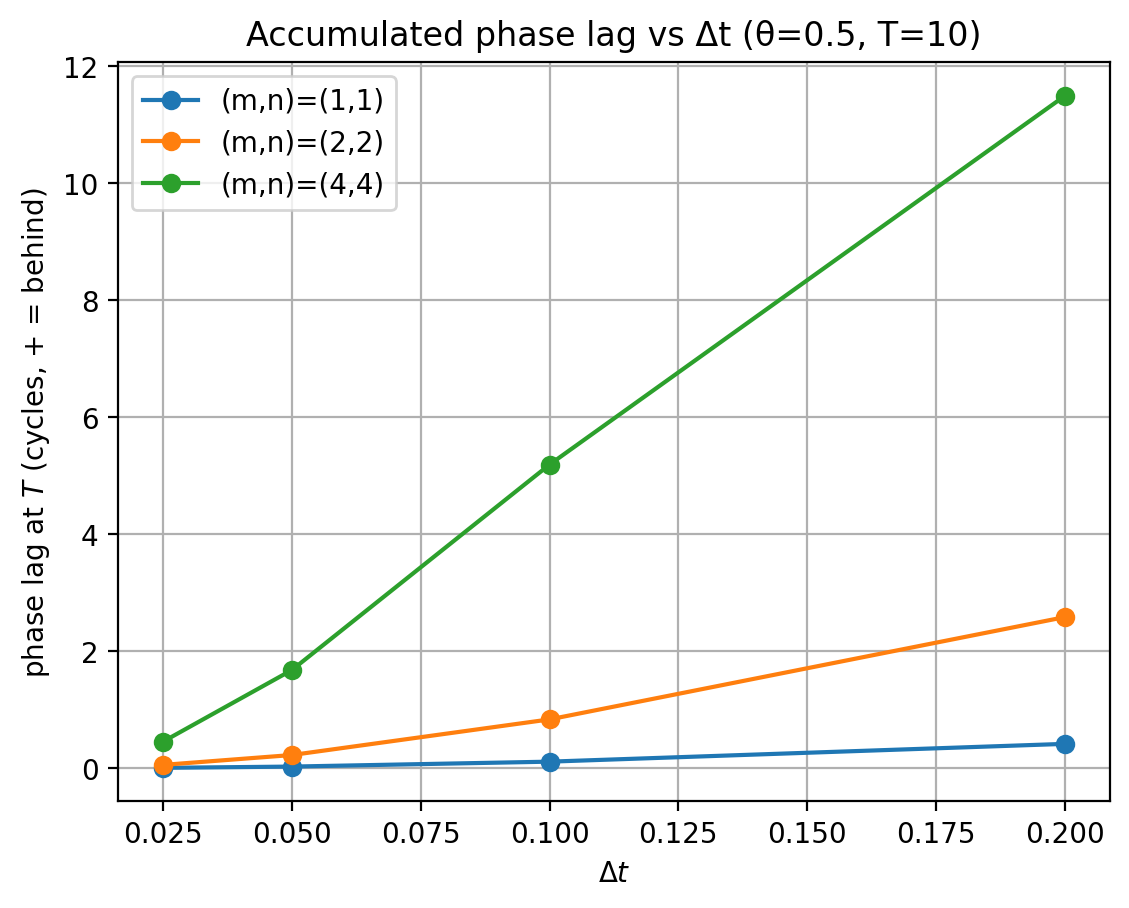
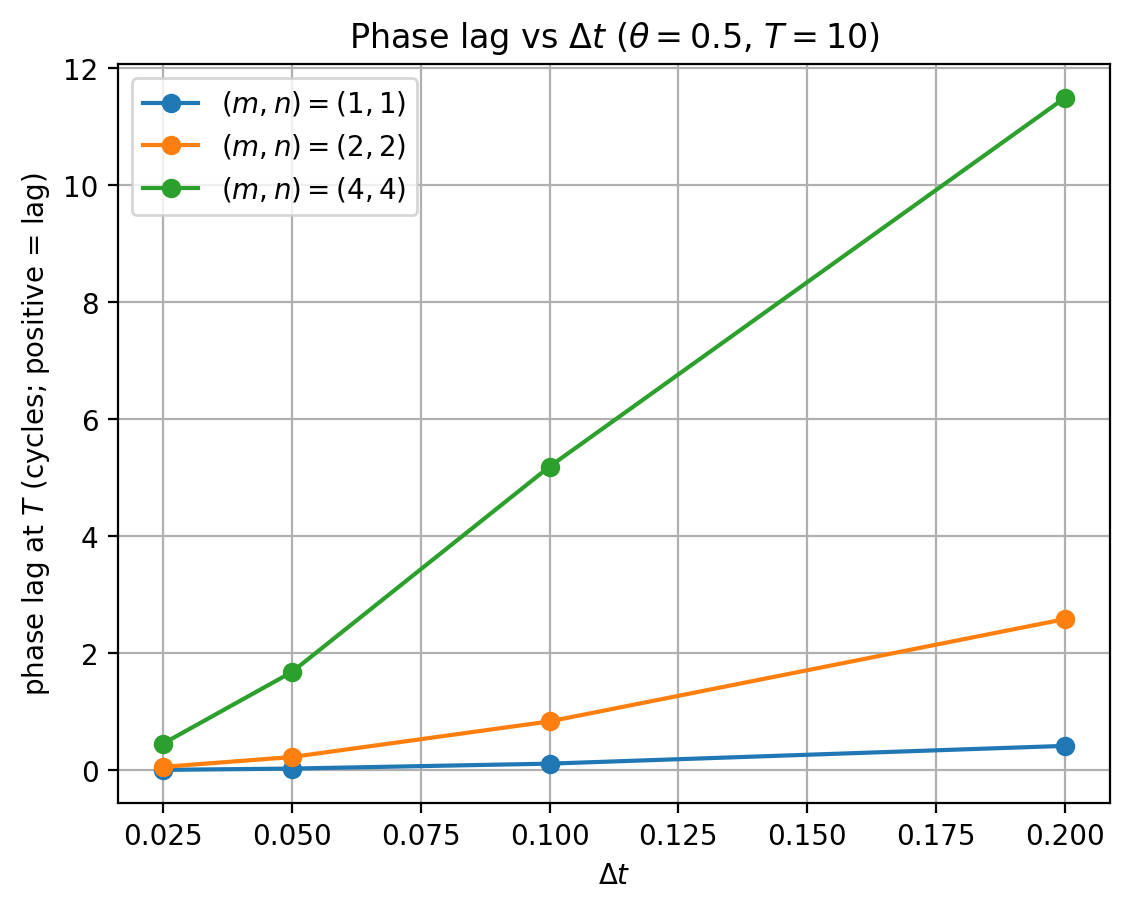
change some comments

diff --git a/scripts/plot_dispersion_time.py b/scripts/plot_dispersion_time.py
@@ -5,14 +5,15 @@ import numpy as np
 import matplotlib.pyplot as plt
 
 
-def compute_phase_drift_semi_T(df: pd.DataFrame) -> pd.Series:
+def compute_phase_drift_semi_T(df: pd.DataFrame) -> np.ndarray:
     """
-    Return drift vs semi-discrete phase at final time T.
+    Convert the stored phase drift (relative to omega_exact) into drift relative
+    to omega_semi at final time T.
 
-    Your Wave currently stores phase_drift_T relative to omega_exact:
+    If Wave stores:
         phase_drift_T = phi(T) - (phi(0) + omega_exact*T)
 
-    Convert to drift vs omega_semi:
+    Then drift vs omega_semi is:
         drift_semi_T = phi(T) - (phi(0) + omega_semi*T)
                      = phase_drift_T + (omega_exact - omega_semi)*T
     """
@@ -21,7 +22,10 @@ def compute_phase_drift_semi_T(df: pd.DataFrame) -> pd.Series:
     if missing:
         raise ValueError(f"Missing columns needed for drift conversion: {sorted(missing)}")
 
-    return df["phase_drift_T"].to_numpy() + (df["omega_exact"].to_numpy() - df["omega_semi"].to_numpy()) * df["T"].to_numpy()
+    return (
+        df["phase_drift_T"].to_numpy()
+        + (df["omega_exact"].to_numpy() - df["omega_semi"].to_numpy()) * df["T"].to_numpy()
+    )
 
 
 def main():
@@ -31,7 +35,7 @@ def main():
 
     df = pd.read_csv(csv_path)
 
-    # Expect columns from your updated study:
+    # Expect columns from the updated study:
     # dt, T, omega_semi_dt, ratio_num_semi, ratio_pred_theta05, m, n,
     # omega_exact, omega_semi, phase_drift_T
     df = df.sort_values(["m", "n", "omega_semi_dt"])
@@ -43,7 +47,7 @@ def main():
     for (m, n), g in df.groupby(["m", "n"]):
         x = g["omega_semi_dt"].to_numpy()
         y = g["ratio_num_semi"].to_numpy()
-        plt.plot(x, y, marker="o", label=f"(m,n)=({m},{n})")
+        plt.plot(x, y, marker="o", label=rf"$(m,n)=({m},{n})$")
 
     # Theory curve for theta=0.5: (2/x) atan(x/2)
     xmax = float(df["omega_semi_dt"].max()) if len(df) else 1.0
@@ -52,10 +56,10 @@ def main():
     mask = xgrid > 1e-14
     ygrid[mask] = (2.0 / xgrid[mask]) * np.arctan(xgrid[mask] / 2.0)
 
-    plt.plot(xgrid, ygrid, label="theory θ=0.5")
+    plt.plot(xgrid, ygrid, label=r"theory $\theta=0.5$")
     plt.xlabel(r"$x=\omega_{\mathrm{semi}}\Delta t$")
     plt.ylabel(r"$\omega_{\mathrm{num}}/\omega_{\mathrm{semi}}$")
-    plt.title("Time dispersion (θ=0.5)")
+    plt.title(r"Time dispersion ($\theta=0.5$)")
     plt.grid(True)
     plt.legend()
 
@@ -69,40 +73,38 @@ def main():
     # Drift vs semi at T (radians)
     drift_semi_T = compute_phase_drift_semi_T(df)
 
-    # Convert to "lag in cycles" (positive = behind)
+    # Convert to "lag in cycles"
+    # lag_cycles_T > 0 means the numerical solution lags behind the semi-discrete oscillation
     lag_cycles_T = -drift_semi_T / (2.0 * np.pi)
 
     df2 = df.copy()
     df2["phase_drift_semi_T"] = drift_semi_T
     df2["lag_cycles_T"] = lag_cycles_T
 
-    # Sort by dt within each (m,n)
     df2 = df2.sort_values(["m", "n", "dt"])
 
     plt.figure()
     for (m, n), g in df2.groupby(["m", "n"]):
         x = g["dt"].to_numpy()
         y = g["lag_cycles_T"].to_numpy()
-        # If T varies across rows, it will still plot correctly; but typically T is fixed.
-        plt.plot(x, y, marker="o", label=f"(m,n)=({m},{n})")
+        plt.plot(x, y, marker="o", label=rf"$(m,n)=({m},{n})$")
 
     plt.xlabel(r"$\Delta t$")
-    plt.ylabel(r"phase lag at $T$ (cycles, + = behind)")
-    # Use a single T in title if it is constant; otherwise omit the value.
+    # simpler wording:
+    plt.ylabel(r"phase lag at $T$ (cycles; positive = lag)")
+
     T_unique = np.unique(df2["T"].to_numpy())
     if len(T_unique) == 1:
-        plt.title(f"Accumulated phase lag vs Δt (θ=0.5, T={T_unique[0]:g})")
+        plt.title(rf"Phase lag vs $\Delta t$ ($\theta=0.5$, $T={T_unique[0]:g}$)")
     else:
-        plt.title("Accumulated phase lag vs Δt (θ=0.5)")
+        plt.title(r"Phase lag vs $\Delta t$ ($\theta=0.5$)")
+
     plt.grid(True)
     plt.legend()
 
     out_path = os.path.join(out_dir, "phase_lag_vs_dt.png")
     plt.savefig(out_path, dpi=200, bbox_inches="tight")
     print("Wrote:", out_path)
-
-    # Optional: also save the enriched dataframe for debugging/post-processing
-    # df2.to_csv(os.path.join(out_dir, "dispersion_summary_with_phase_lag.csv"), index=False)
 
 
 if __name__ == "__main__":

diff --git a/src/TimeConvergence.cpp b/src/TimeConvergence.cpp
@@ -18,7 +18,7 @@ int main(int argc, char *argv[])
   const unsigned int mpi_rank = Utilities::MPI::this_mpi_process(MPI_COMM_WORLD);
   ConditionalOStream pcout(std::cout, mpi_rank == 0);
 
-  // Defaults (override via CLI if you want)
+  // Defaults (override via CLI)
   std::string mesh_file = "../meshes/mesh-square-128.msh";
   unsigned int degree = 1;
   double T = 1.0;

diff --git a/src/SpaceConvergence.cpp b/src/SpaceConvergence.cpp
@@ -41,7 +41,7 @@ int main(int argc, char *argv[])
   std::vector<int> Ns = {8, 16, 32, 64, 128};
 
   // ----------------------------
-  // CLI parsing (same format as before)
+  // CLI parsing (same format)
   // SpaceConvergence <mesh_dir> <prefix> <degree> <T> <theta> <dt> <N1> <N2> ...
   // ----------------------------
   if (argc > 1)
